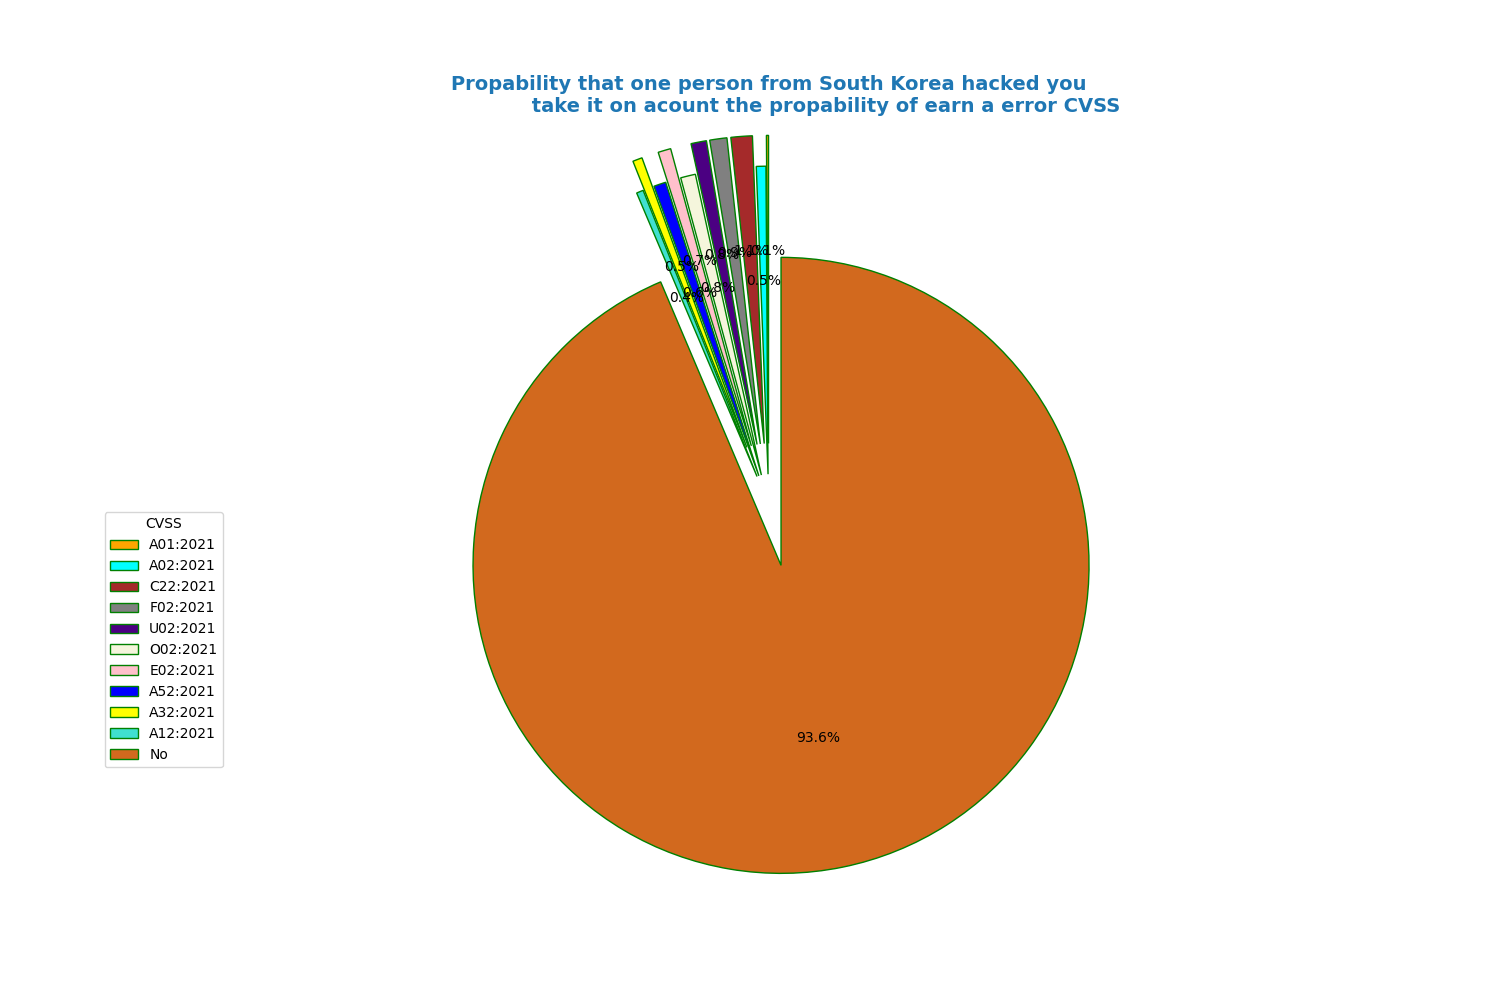
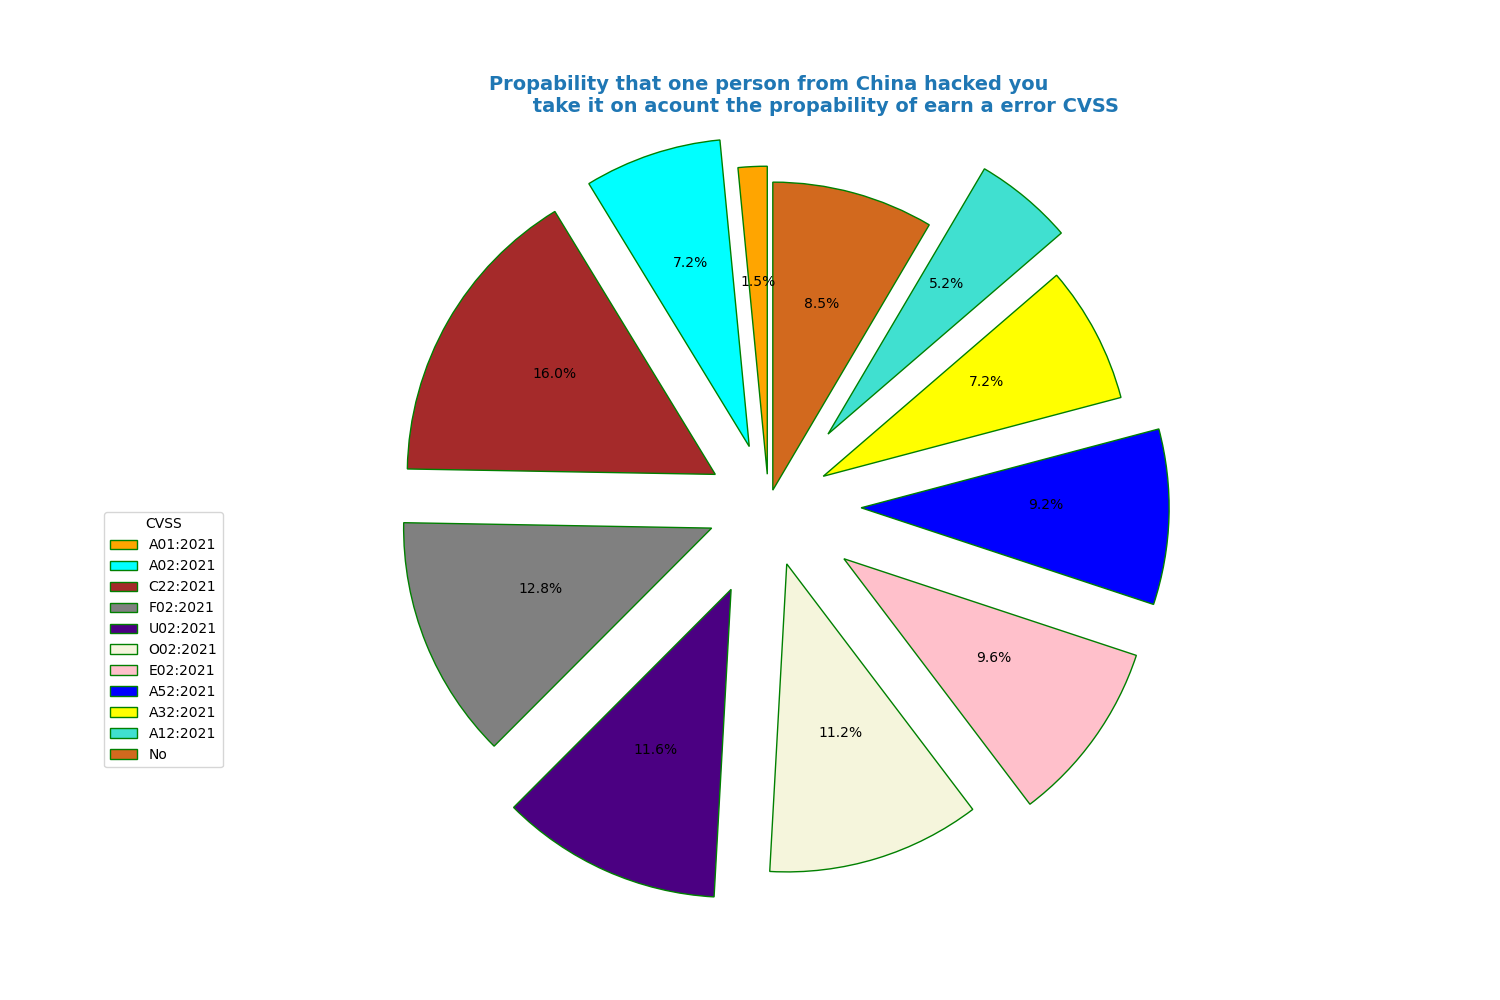
actualizaciones generales

Changed region(s): [[0.2453, 0.062, 0.7973, 0.899], [0.092, 0.558, 0.1533, 0.713]]

diff --git a/functions.py b/functions.py
@@ -15,7 +15,7 @@ def probability(hackers_in_2016, cvss, usersInternet):
         valuesCountries.append(index)
         others = others + p
     
-    valuesHackers.append(others)
+    valuesHackers.append(usersInternet - others)
     valuesCountries.append('Others')
       
     return valuesHackers, valuesCountries
@@ -30,12 +30,12 @@ def acumValues(pieValues, labels, cvss):
     explode = (0.1, 0.2, 0.2, 0.2, 0.3, 0.2, 0.3, 0.3, 0.2, 0.3, 0.05)
     # Colors
     colors = ( "orange", "cyan", "brown",
-          "grey", "indigo", "beige", "pink", "blue", "yellow", "turquoise")
+          "grey", "indigo", "beige", "pink", "blue", "yellow", "turquoise", "chocolate")
     
     wp = { 'linewidth' : 1, 'edgecolor' : "green" }
 
     # Crear la figura y los ejes
-    fig, ax = plt.subplots(figsize =(10, 6))
+    fig, ax = plt.subplots(figsize =(15, 10))
     # Dibujar puntos
     ax.set_title("""Propability top 10 that a hacker from 
     these countries hacked you, with a CVSS of: """ + str(cvss), loc = "center", fontdict = {'fontsize':14, 'fontweight':'bold', 'color':'tab:blue', 'verticalalignment': 'baseline',})
@@ -85,9 +85,9 @@ def probabilityCvss(comunCvss, hacker, hackersIntheWorld):
     
     return valuesHackers, valuesCvss
     
-def acumValues2(plotValues, labels, country='South Korea'):
+def acumValues2(plotValues, labels, country='China'):
     # Creating explode data
-    explode = (0.2, 0.1, 0.2, 0.2, 0.2, 0.1, 0.2, 0.1, 0.2, 0.1, 0.2)
+    explode = (0.1, 0.2, 0.2, 0.2, 0.3, 0.2, 0.3, 0.3, 0.2, 0.3, 0.05)
     # Colors
     colors = ( "orange", "cyan", "brown",
           "grey", "indigo", "beige", "pink", "blue", "yellow", "turquoise", "chocolate")
@@ -117,10 +117,11 @@ def acumValues2(plotValues, labels, country='South Korea'):
     # Mostrar el gráfico
     plt.show()
 
-def kinter(hackers_in_2016, usersInternet):
+def kinter(hackers_in_2016, usersInternet, comunCvss):
     root = tkinter.Tk()
 
-    root.geometry('400x400')
+    root.geometry('600x600')
+    texto2 = tkinter.Label(root, text = 'Teorema of Bayes In Hacking')
     texto = tkinter.Label(root, text = 'CVSS')
     input = tkinter.Entry(root)
 
@@ -129,11 +130,18 @@ def kinter(hackers_in_2016, usersInternet):
         dobleArray = probability(hackers_in_2016, cvss, usersInternet)
         acumValues(dobleArray[0], dobleArray[1], cvss)
 
-    btn = tkinter.Button(root, text = 'Enter', command = lambda: obtenerCVSS())
+    def obtenerhacker():
+        hacker = float(input.get())
+        dobleArray = probabilityCvss(comunCvss, hacker, usersInternet)
+        acumValues2(dobleArray[0], dobleArray[1])
 
+    btn = tkinter.Button(root, text = 'Probability per cvss', command = lambda: obtenerCVSS())
+    btn2 = tkinter.Button(root, text = 'Probability per country', command = lambda: obtenerhacker())
+    texto2.pack()
     texto.pack()
     input.pack()
     btn.pack()
+    btn2.pack()
 
 
 

diff --git a/teoremaofbayes.py b/teoremaofbayes.py
@@ -29,13 +29,13 @@ comunCvss = {
     'A12:2021':0.13
 }
 
-hacker = 0.028
+#hacker = 0.028
 
-example = probabilityCvss(comunCvss, hacker, hackersIntheWorld)
+#example = probabilityCvss(comunCvss, hacker, hackersIntheWorld)
 
-acumValues2(example[0], example[1])
+#acumValues2(example[0], example[1])
 
-#kinter(hackers_in_2016, usersInternet)
+kinter(hackers_in_2016, usersInternet, comunCvss)
 
 # This data, i think that isn't necessary 
 # """
